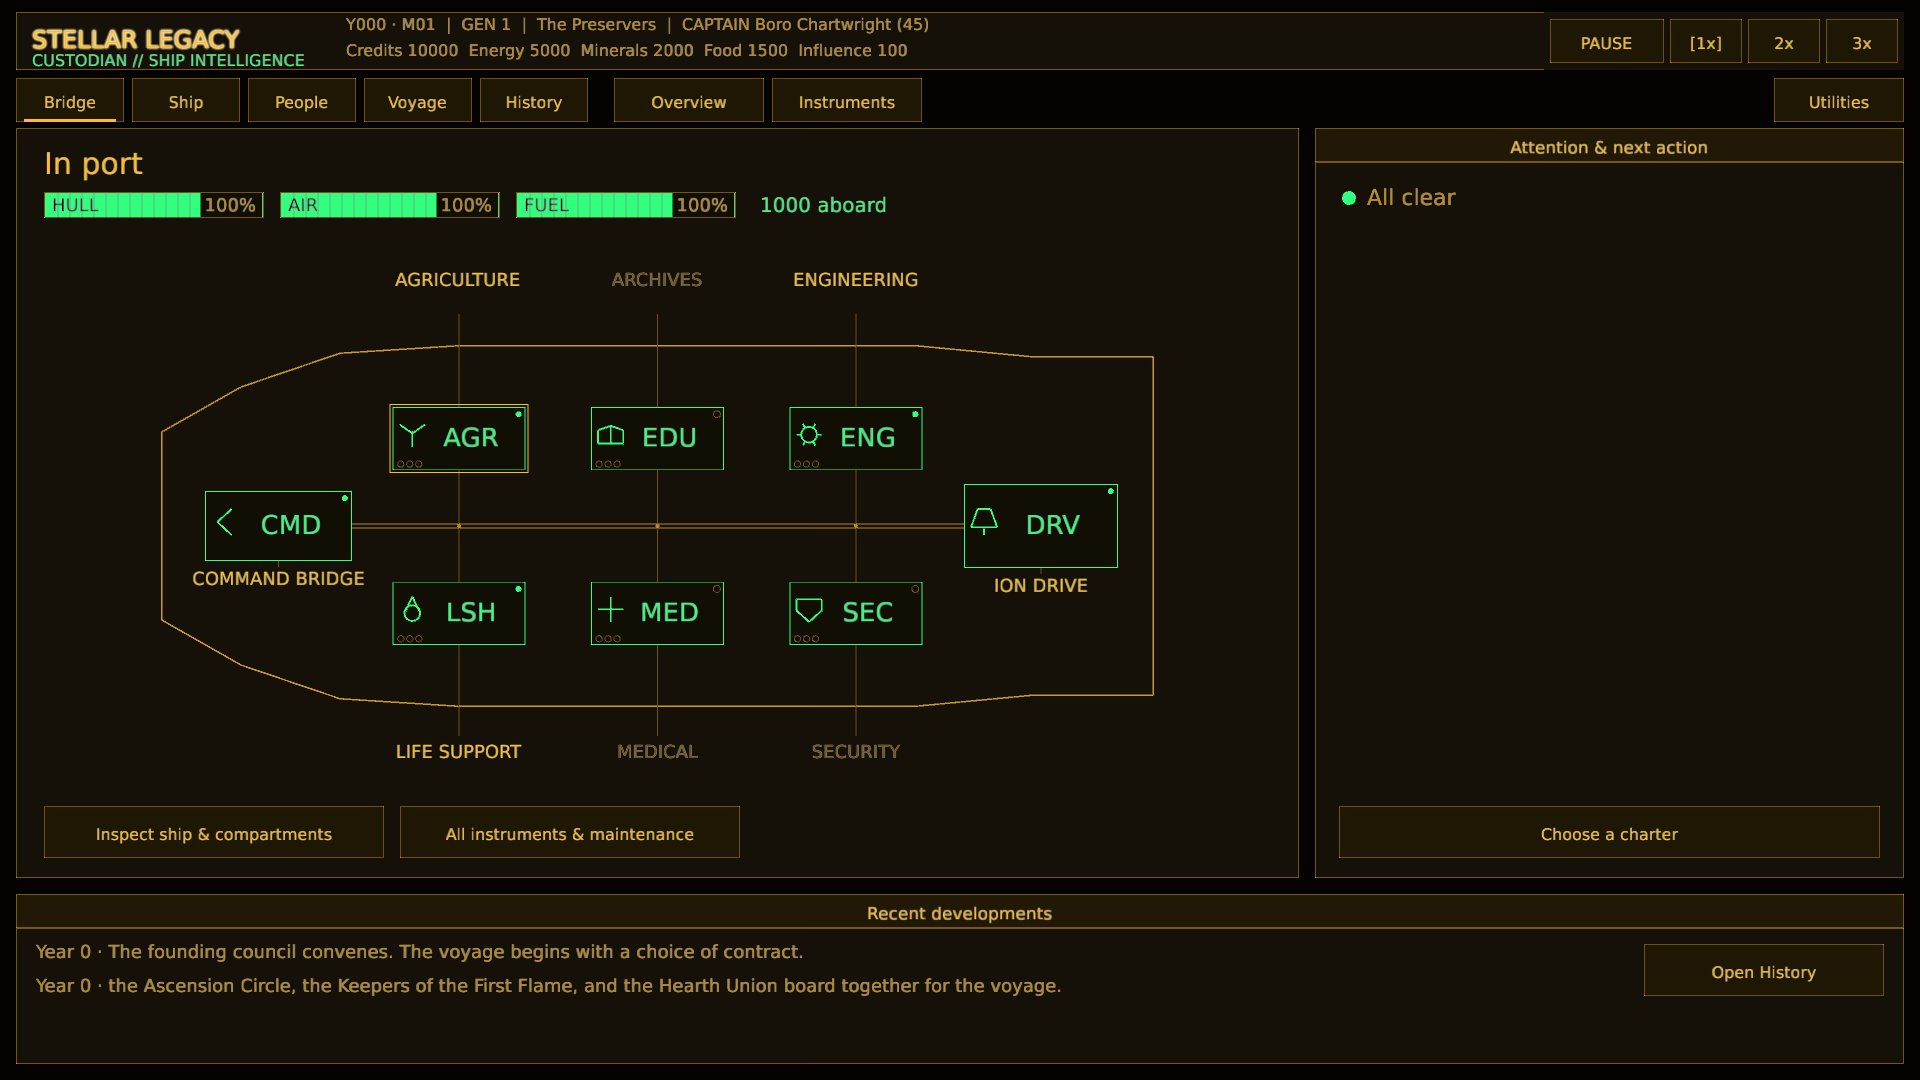
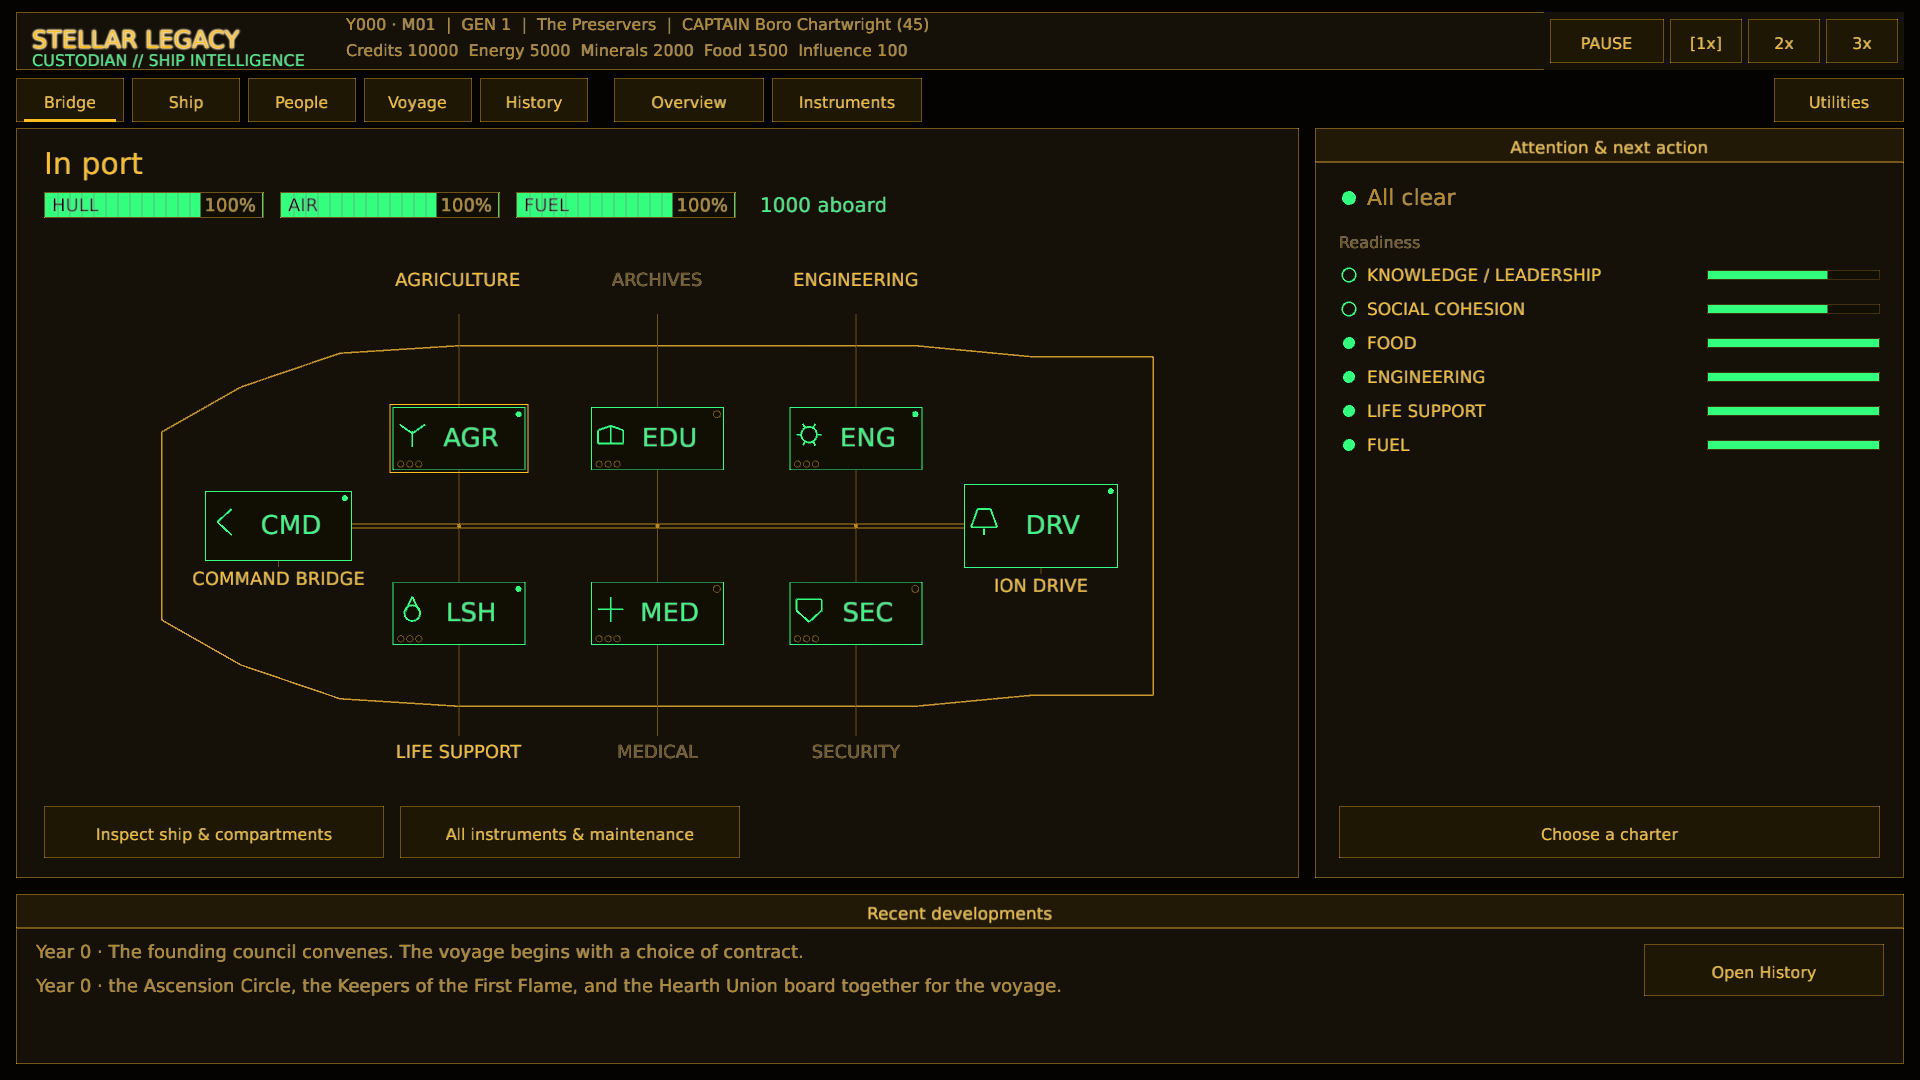
The quiet bridge keeps watch (Bridge readiness lamps and next commitment)
With nothing wrong, the attention panel was an "All clear" lamp over an
empty panel and one button, so the Custodian had to leave the bridge to
see how close any concern was to tipping.

A new `bridge/watch.rs` fills the all-clear panel. When a timed duty is
on the books but not yet inside the one-year alert window, a "Next
commitment" row gives its title and the years left. Below it, every
readiness concern from the shared forecast is a row, weakest first: a
lamp for its band (lit for strong, ring for stable, dim for vulnerable,
red for critical) and a slim unlabeled bar for its margin. The alert
layouts and the call-to-action button are unchanged.

Formatting, strict all-target Clippy and the full test suite pass. The
bridge was recaptured at 1920x1080 and read back.

Changed region(s): [[0.875, 0.2444, 1.0, 0.4278], [0.6875, 0.2139, 0.8438, 0.4278]]

diff --git a/src/ui/bridge/watch.rs b/src/ui/bridge/watch.rs
@@ -1,0 +1,108 @@
+//! The all-clear watch board: when nothing needs the Custodian, the attention
+//! panel still shows what is coming (the next timed commitment) and how each
+//! readiness concern stands, as lamps rather than sentences.
+
+use super::*;
+use crate::simulation::readiness::ReadinessRow;
+
+const ROW_H: f32 = 34.0;
+const LAMP_R: f32 = 6.0;
+
+/// Draw the board from `top` down inside `rect`, stopping above `bottom`.
+pub(super) fn draw(ctx: &GameplayCtx<'_>, rect: Rect, top: f32, bottom: f32) {
+    let x = rect.x + 24.0;
+    let w = rect.w - 48.0;
+    let mut y = top;
+    if let Some((title, years)) = next_commitment(ctx) {
+        y = section_caption("Next commitment", x, y);
+        lamp(x + 10.0, y + ROW_H * 0.5, LampState::Lit(term::dim()));
+        draw_text_block(
+            title,
+            x + 28.0,
+            y + 4.0,
+            w - 150.0,
+            ROW_H,
+            18.0,
+            2.0,
+            term::primary(),
+        );
+        draw_text_right(
+            &format!("in {years} y"),
+            x + w,
+            y + ROW_H * 0.5 + 7.0,
+            TextStyle::new(18.0, term::dim()),
+        );
+        y += ROW_H + 18.0;
+    }
+    y = section_caption("Readiness", x, y);
+    let forecast = readiness::forecast(ctx.sim, ctx.data);
+    let mut rows: Vec<&ReadinessRow> = forecast.rows.iter().collect();
+    rows.sort_by(|a, b| a.score.total_cmp(&b.score));
+    for row in rows {
+        if y + ROW_H > bottom {
+            break;
+        }
+        readiness_row(row, x, y, w);
+        y += ROW_H;
+    }
+}
+
+/// The next timed duty that is not already raised as due by the alert above.
+fn next_commitment<'a>(ctx: &'a GameplayCtx<'_>) -> Option<(&'a str, u32)> {
+    let sim = ctx.sim;
+    let now = sim.year();
+    let duty = sim.next_timed_obligation()?;
+    let due = duty.due_year?;
+    (due > now + 1).then(|| (duty.title.as_str(), due - now))
+}
+
+fn section_caption(text: &str, x: f32, y: f32) -> f32 {
+    draw_ui_text_ex(
+        text,
+        x,
+        y + 16.0,
+        TextStyle::new(16.0, term::faint()).params(),
+    );
+    y + 26.0
+}
+
+fn readiness_row(row: &ReadinessRow, x: f32, y: f32, w: f32) {
+    let (state, fill) = match row.band {
+        ReadinessBand::Strong => (LampState::Lit(term::accent()), term::accent()),
+        ReadinessBand::Stable => (LampState::Ring(term::accent()), term::accent()),
+        ReadinessBand::Vulnerable => (LampState::Lit(term::dim()), term::dim()),
+        ReadinessBand::Critical => (LampState::Lit(term::alert()), term::alert()),
+    };
+    let cy = y + ROW_H * 0.5;
+    lamp(x + 10.0, cy, state);
+    draw_ui_text_ex(
+        &row.concern,
+        x + 28.0,
+        cy + 6.0,
+        TextStyle::new(17.0, term::primary()).params(),
+    );
+    // A slim unlabeled bar: the lamp gives the band, the bar the margin.
+    let bar_w = (w * 0.32).min(180.0);
+    let bar = Rect::new(x + w - bar_w, cy - 5.0, bar_w, 10.0);
+    draw_surface(
+        bar,
+        &SurfaceStyle::new(term::surface_inset()).with_border(1.0, term::faint()),
+    );
+    let fill_w = (bar.w - 2.0) * row.score.clamp(0.0, 1.0);
+    if fill_w > 0.5 {
+        draw_rectangle(bar.x + 1.0, bar.y + 1.0, fill_w, bar.h - 2.0, fill);
+    }
+}
+
+#[derive(Clone, Copy)]
+enum LampState {
+    Lit(Color),
+    Ring(Color),
+}
+
+fn lamp(cx: f32, cy: f32, state: LampState) {
+    match state {
+        LampState::Lit(c) => draw_circle(cx, cy, LAMP_R, c),
+        LampState::Ring(c) => draw_circle_lines(cx, cy, LAMP_R, 1.5, c),
+    }
+}

diff --git a/src/ui/bridge.rs b/src/ui/bridge.rs
@@ -2,6 +2,8 @@
 use super::*;
 use crate::simulation::readiness::{self, ReadinessBand};
 
+mod watch;
+
 pub fn draw(ctx: &GameplayCtx<'_>, area: Rect, pointer: Pointer, actions: &mut Vec<UiAction>) {
     if ctx.presentation.instruments.get() {
         dashboard::draw(ctx, area, pointer, actions);
@@ -192,6 +194,7 @@ fn draw_attention(
             resource_top + 21.0,
             TextStyle::new(22.0, term::dim()).params(),
         );
+        watch::draw(ctx, rect, resource_top + 48.0, rect.bottom() - 88.0);
         attention_action(
             ctx,
             Rect::new(rect.x + 24.0, rect.bottom() - 72.0, rect.w - 48.0, 52.0),
